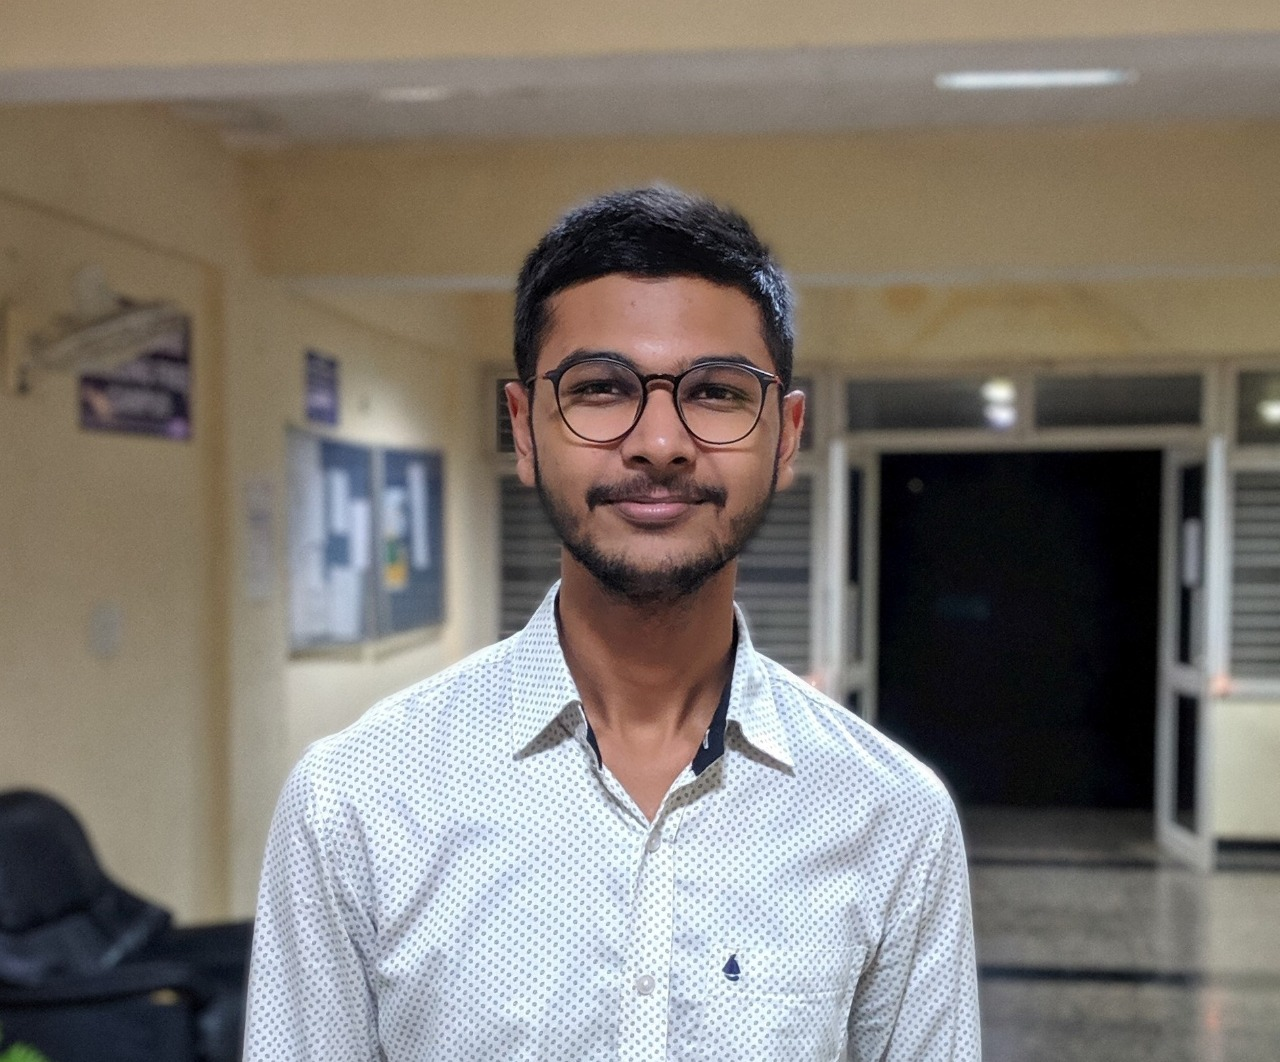
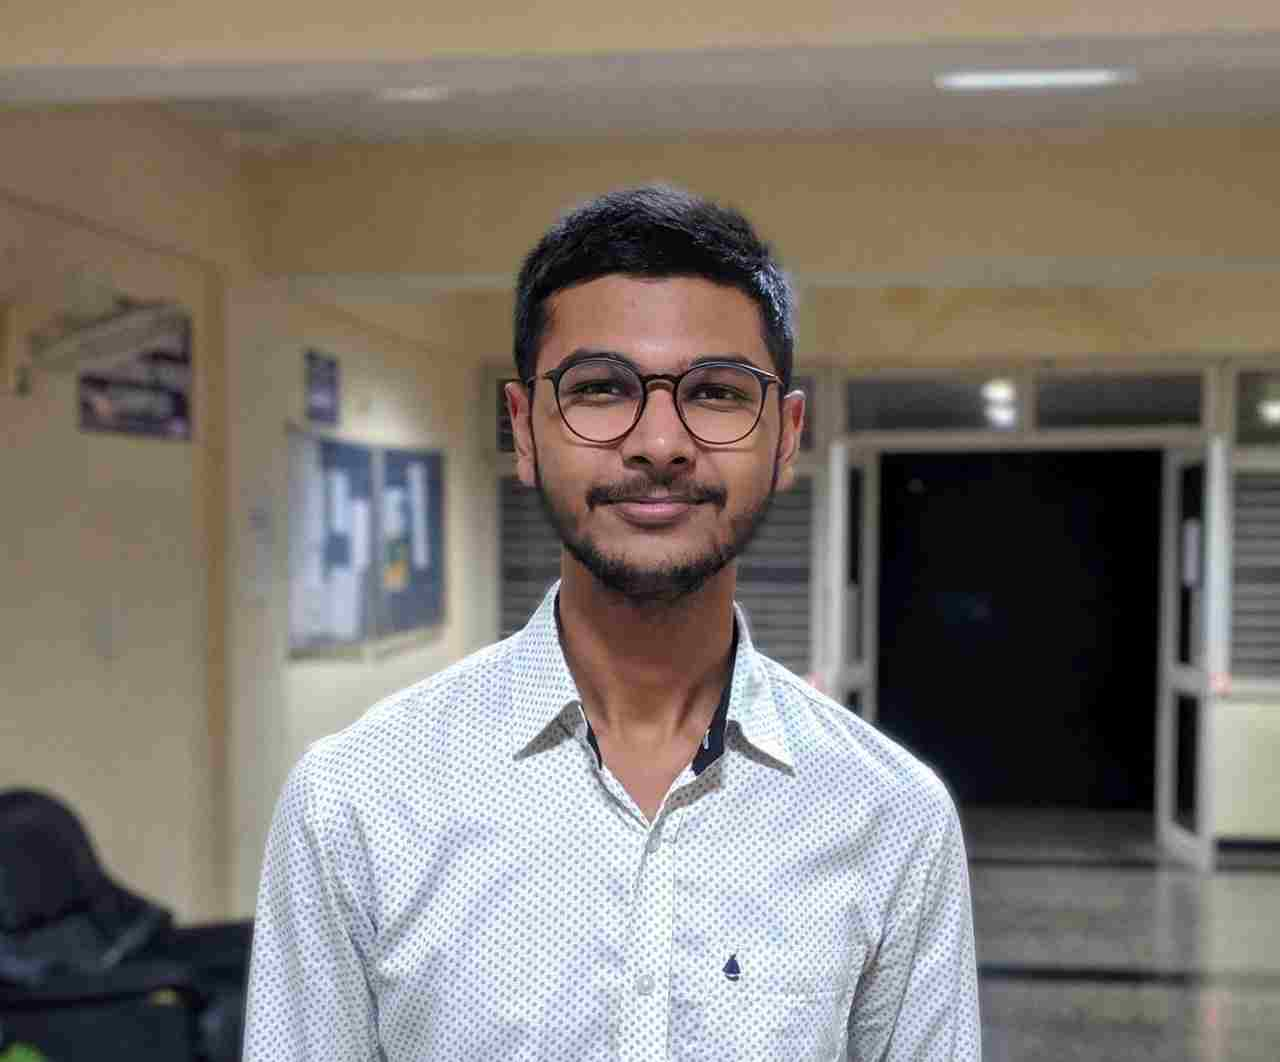
chore: compress images

Changed region(s): [[0.5938, 0.2486, 0.625, 0.2797]]

diff --git a/frontend/src/pages/Projects/projectlist.ts b/frontend/src/pages/Projects/projectlist.ts
@@ -23,7 +23,7 @@ export const projectlist = [
       "Feature-rich code editor in your browser. Just upload your file or an image of code and start coding.",
     dev: "Aksh Bansal",
     url: "https://visualwebcode.netlify.app/",
-    image: "/webix.iiitdmj.ac.in/images/projects/visual-web-code.png",
+    image: "/webix.iiitdmj.ac.in/images/projects/visual-web-code.jpeg",
   },
   {
     projectName: "MICP Leaderboard",
@@ -31,7 +31,7 @@ export const projectlist = [
     description: "Most Improved Competitive Programmers Leaderboard",
     dev: "Aksh Bansal",
     url: "https://micp-leaderboard.vercel.app/",
-    image: "/webix.iiitdmj.ac.in/images/projects/micp.png",
+    image: "/webix.iiitdmj.ac.in/images/projects/micp.jpeg",
   },
   {
     projectName: "Jagrati Wep App",
